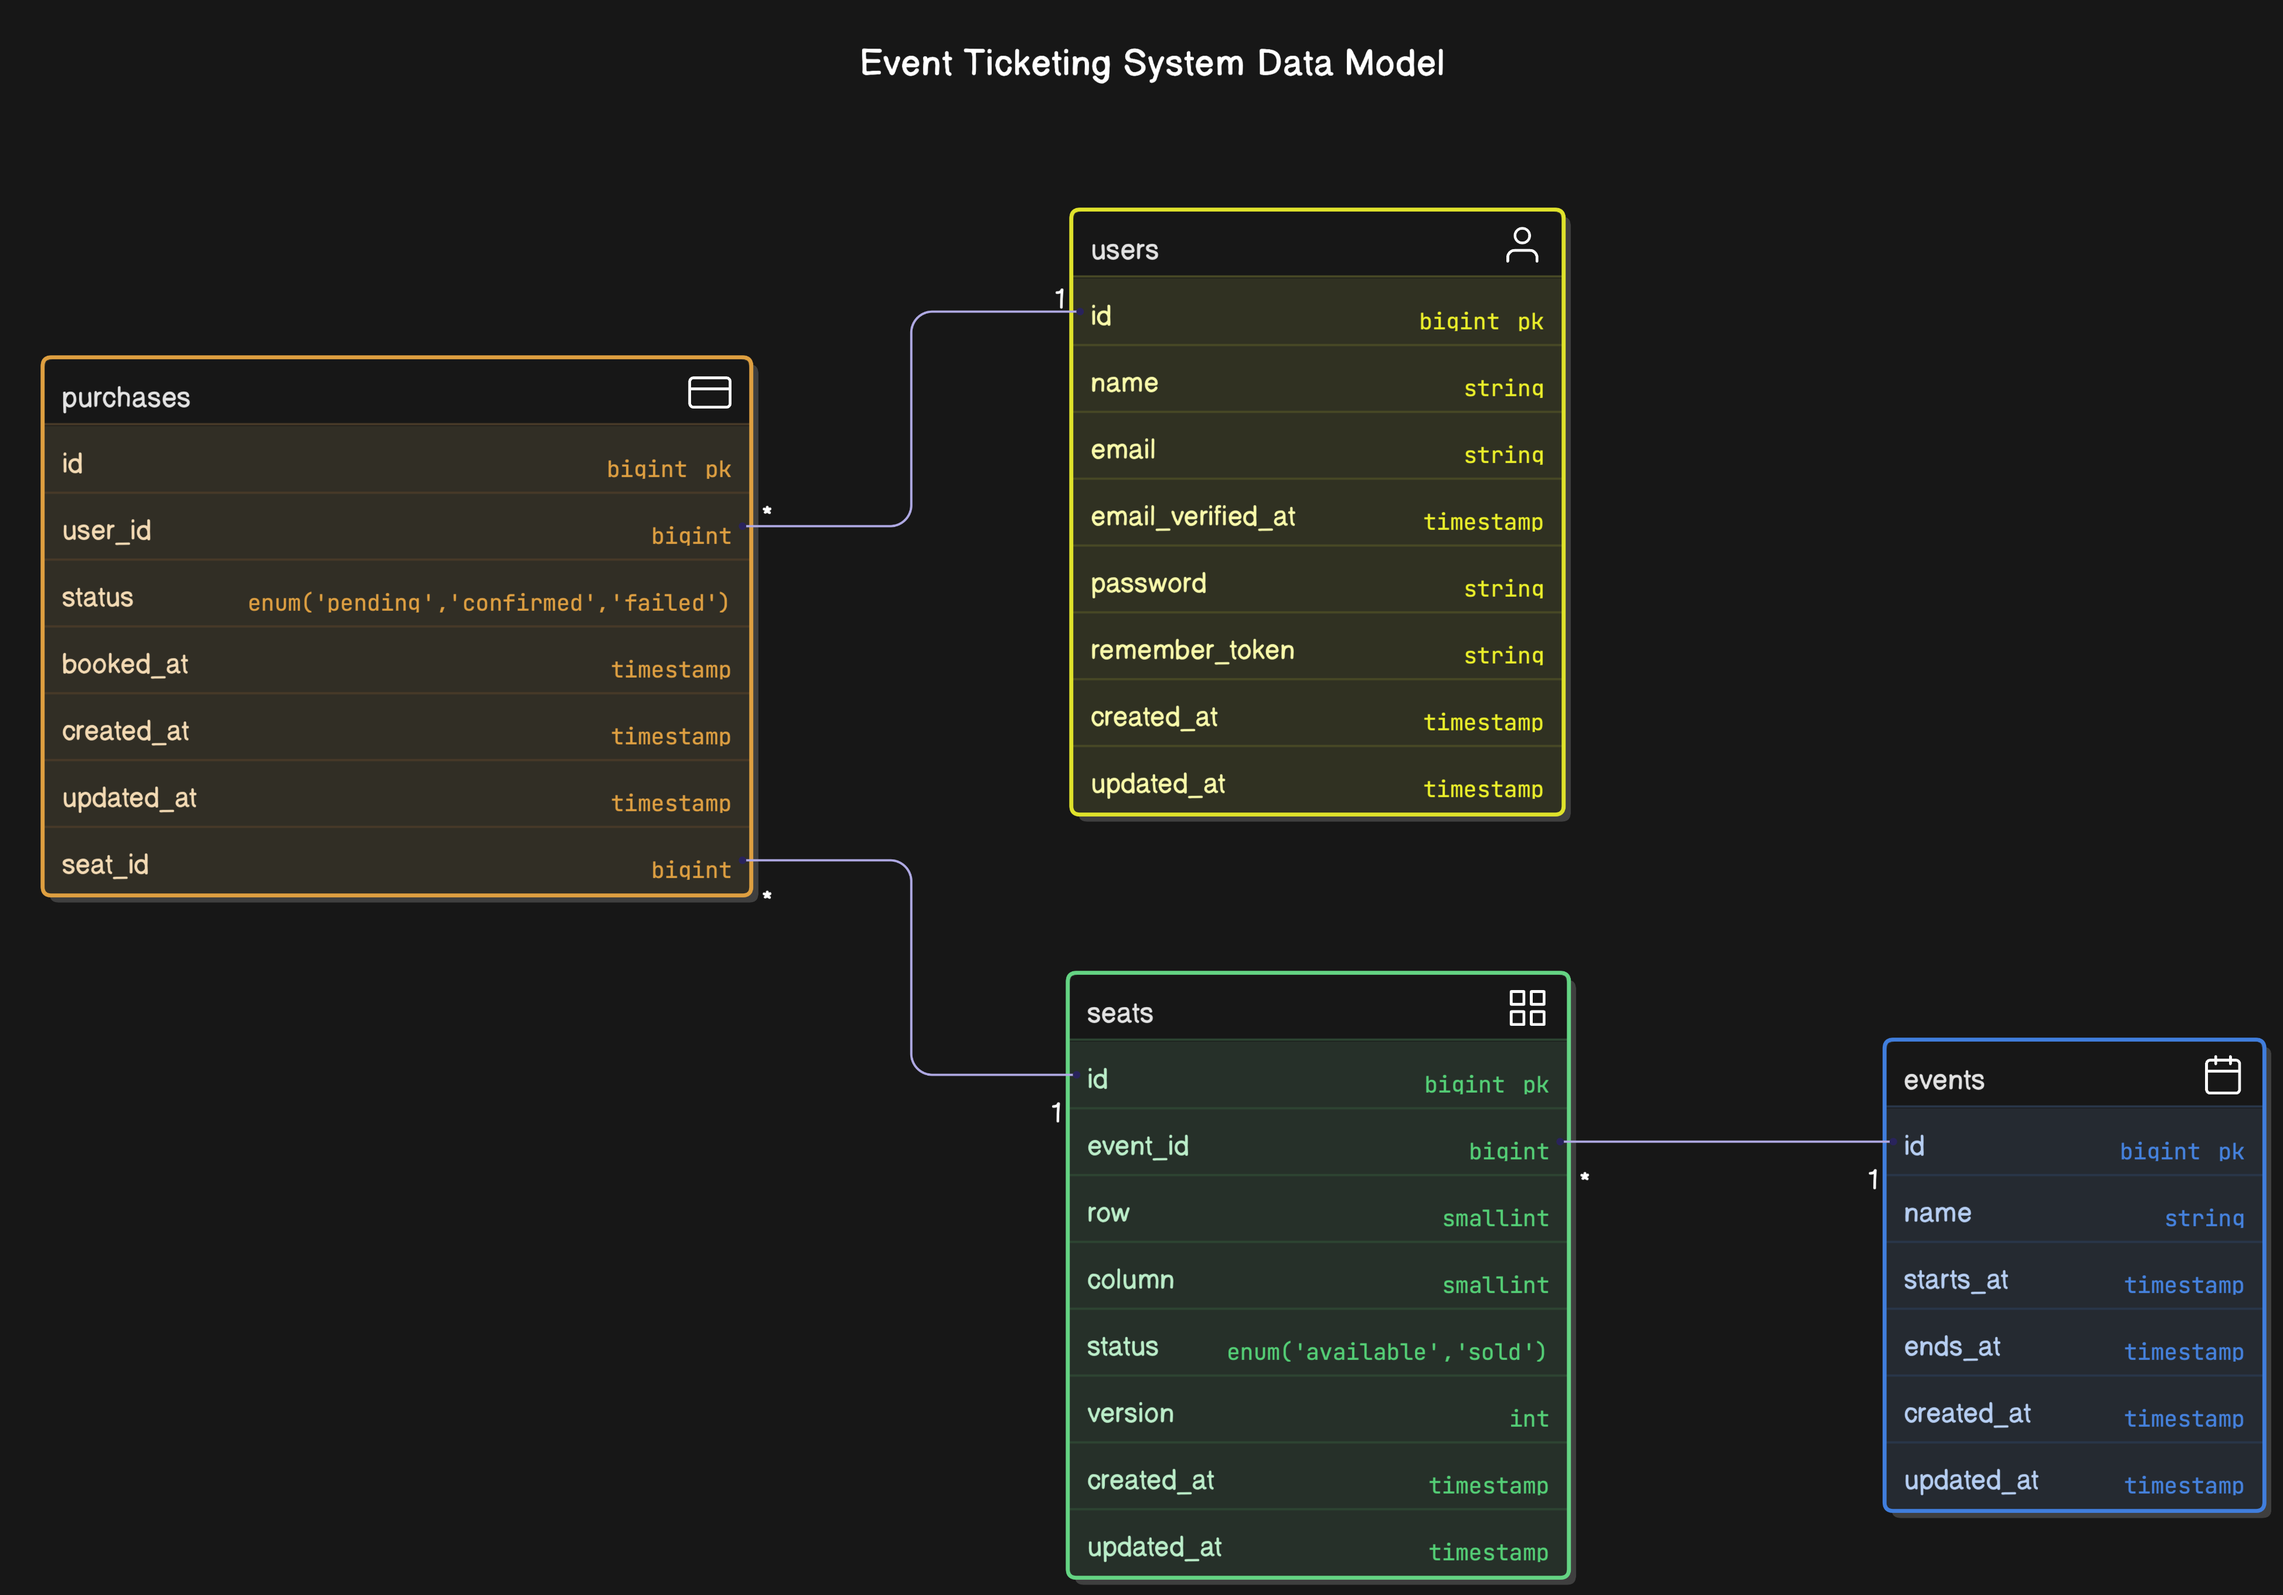
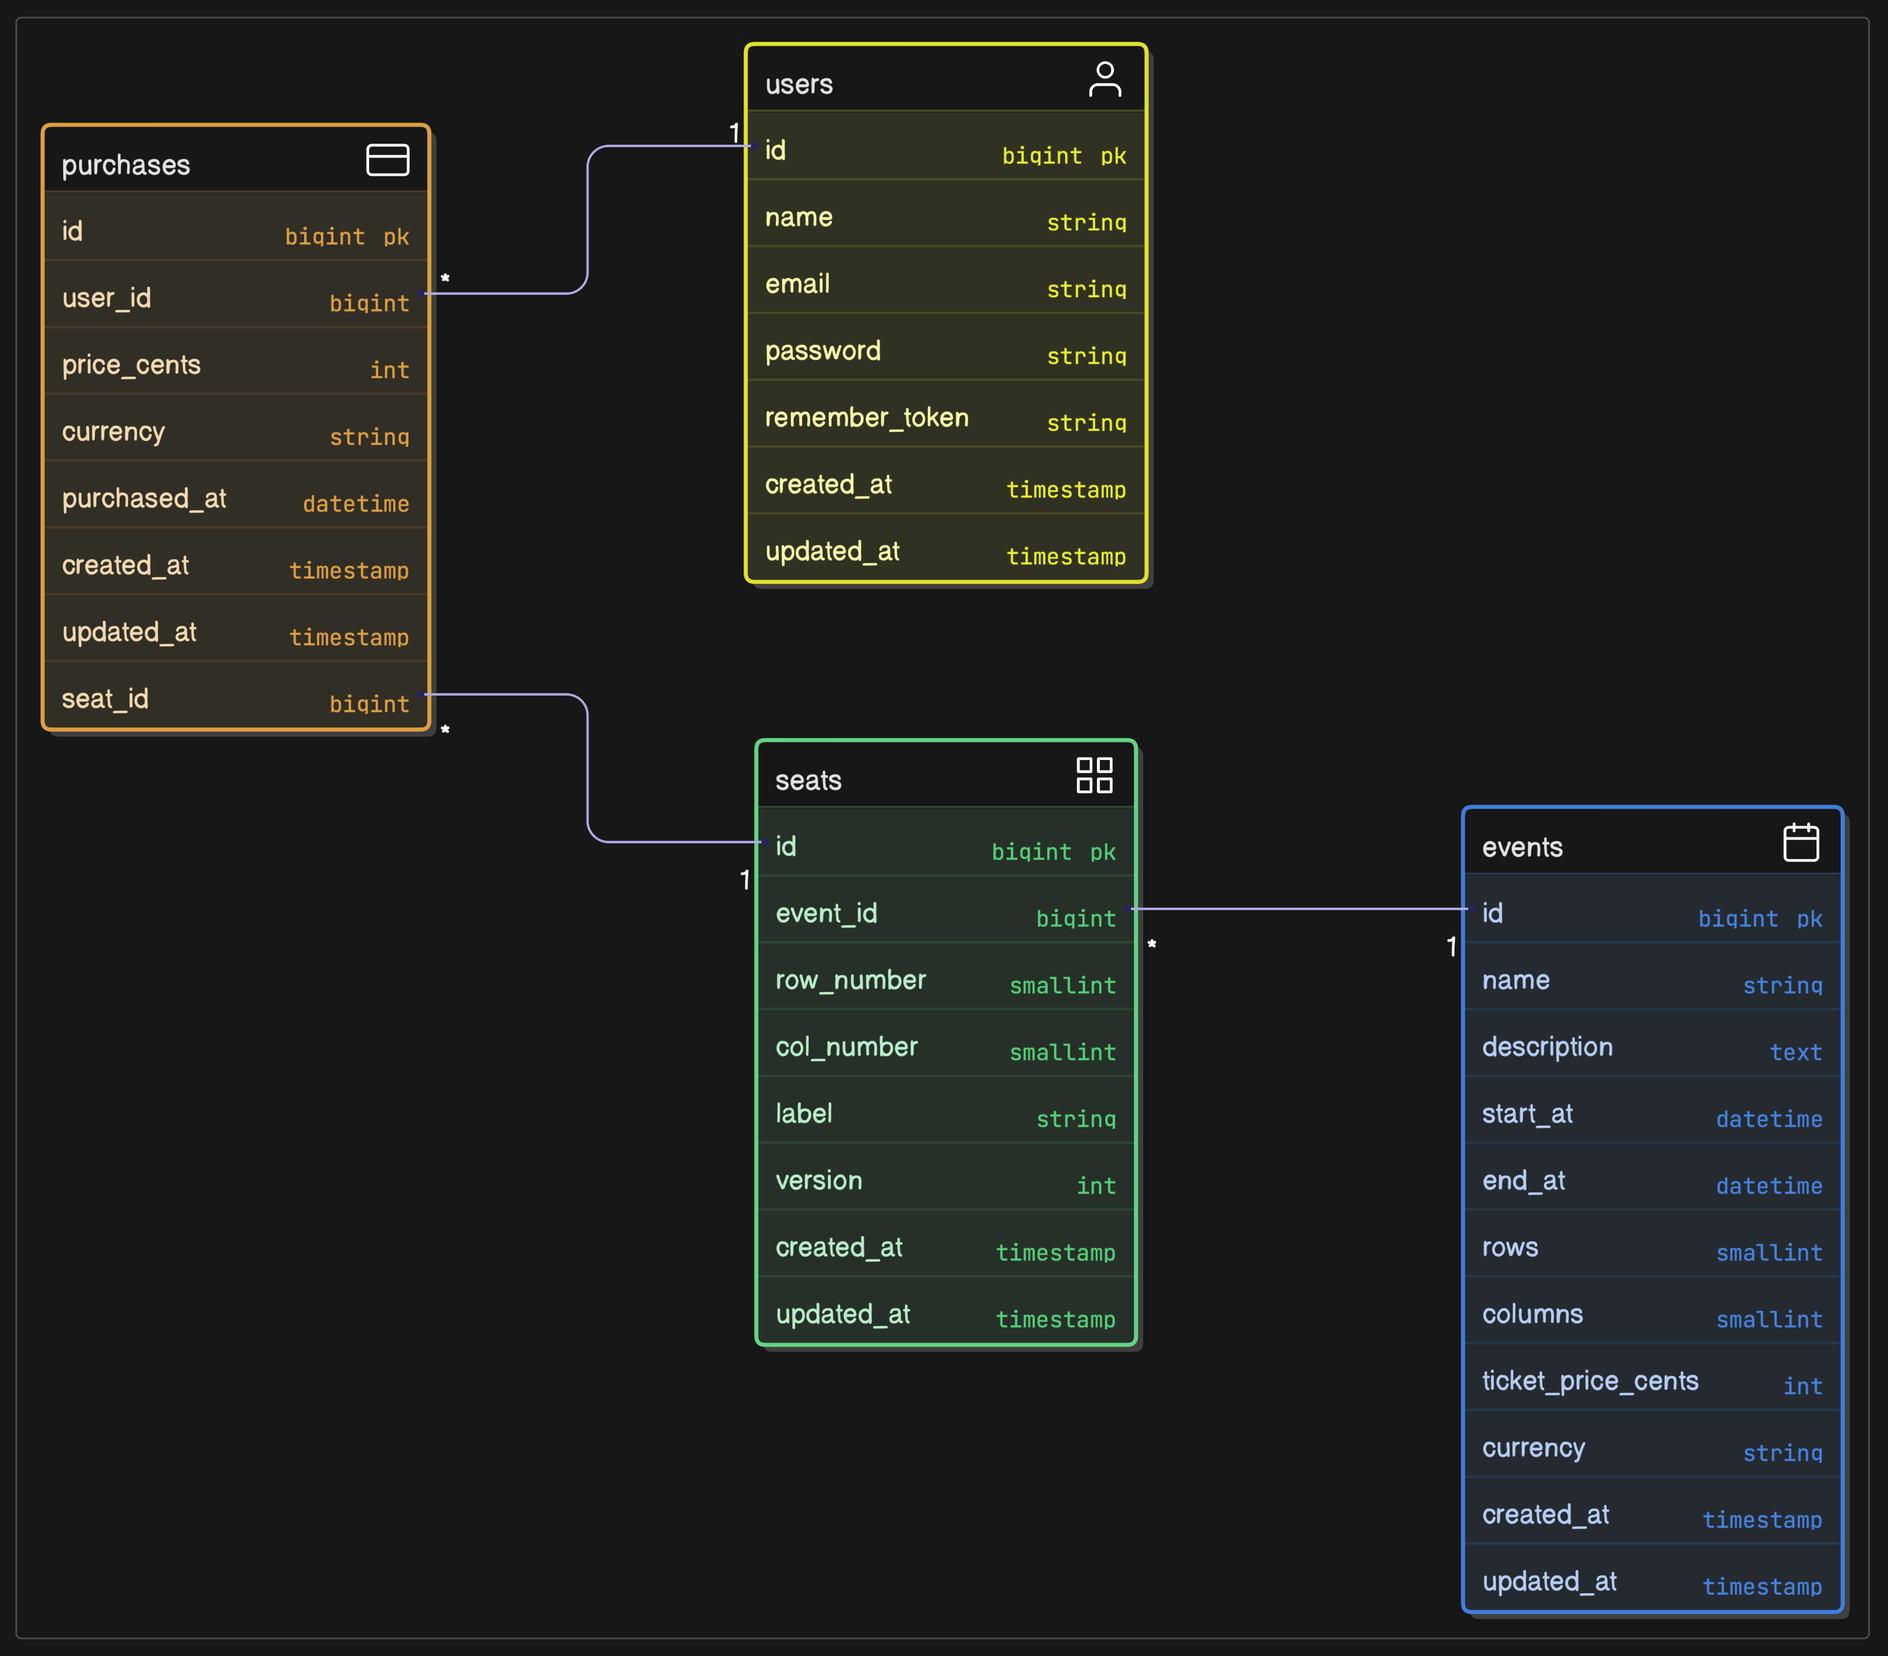
add models, migrations and factories

diff --git a/app/Models/Event.php b/app/Models/Event.php
@@ -1,0 +1,54 @@
+<?php
+
+namespace App\Models;
+
+use App\Enums\Currency;
+use Illuminate\Database\Eloquent\Concerns\HasUuids;
+use Illuminate\Database\Eloquent\Factories\HasFactory;
+use Illuminate\Database\Eloquent\Model;
+use Illuminate\Database\Eloquent\Relations\HasMany;
+
+class Event extends Model
+{
+    /** @use HasFactory<\Database\Factories\EventFactory> */
+    use HasFactory, HasUuids;
+
+    protected $fillable = [
+        'name',
+        'description',
+        'start_time',
+        'end_time',
+        'rows',
+        'columns',
+        'price_cents',
+        'price_currency',
+    ];
+
+    protected function casts(): array
+    {
+        return [
+            'start_at'    => 'datetime',
+            'end_at'      => 'datetime',
+            'price_cents' => 'integer',
+            'rows'        => 'integer',
+            'columns'     => 'integer',
+            'price_currency' =>  Currency::class
+        ];
+    }
+
+    /**
+     * The seats that belong to the event.
+     */
+    public function seats(): HasMany
+    {
+        return $this->hasMany(Seat::class);
+    }
+
+    /**
+     * The purchases that belong to the event.
+     */
+    public function purchases(): HasMany
+    {
+        return $this->hasMany(Purchase::class);
+    }
+}

diff --git a/app/Models/Purchase.php b/app/Models/Purchase.php
@@ -1,0 +1,48 @@
+<?php
+
+namespace App\Models;
+
+use App\Enums\Currency;
+use Database\Factories\PurchaseFactory;
+use Illuminate\Database\Eloquent\Factories\HasFactory;
+use Illuminate\Database\Eloquent\Model;
+use Illuminate\Database\Eloquent\Relations\BelongsTo;
+
+class Purchase extends Model
+{
+    /** @use HasFactory<PurchaseFactory> */
+    use HasFactory;
+
+    protected $fillable = [
+        'user_id',
+        'seat_id',
+        'event_id',
+        'price_cents',
+        'price_currency',
+        'purchased_at',
+    ];
+
+    protected function casts(): array
+    {
+        return [
+            'purchased_at' => 'datetime',
+            'price_cents'  => 'integer',
+            'price_currency' => Currency::class,
+        ];
+    }
+
+    public function user(): BelongsTo
+    {
+        return $this->belongsTo(User::class);
+    }
+
+    public function seat(): BelongsTo
+    {
+        return $this->belongsTo(Seat::class);
+    }
+
+    public function event(): BelongsTo
+    {
+        return $this->belongsTo(Event::class);
+    }
+}

diff --git a/app/Models/User.php b/app/Models/User.php
@@ -3,7 +3,9 @@
 namespace App\Models;
 
 // use Illuminate\Contracts\Auth\MustVerifyEmail;
+use Illuminate\Database\Eloquent\Concerns\HasUuids;
 use Illuminate\Database\Eloquent\Factories\HasFactory;
+use Illuminate\Database\Eloquent\Relations\BelongsToMany;
 use Illuminate\Foundation\Auth\User as Authenticatable;
 use Illuminate\Notifications\Notifiable;
 use Illuminate\Support\Str;
@@ -11,7 +13,7 @@ use Illuminate\Support\Str;
 class User extends Authenticatable
 {
     /** @use HasFactory<\Database\Factories\UserFactory> */
-    use HasFactory, Notifiable;
+    use HasFactory, Notifiable, HasUuids;
 
     /**
      * The attributes that are mass assignable.
@@ -56,5 +58,13 @@ class User extends Authenticatable
             ->explode(' ')
             ->map(fn (string $name) => Str::of($name)->substr(0, 1))
             ->implode('');
+    }
+
+    /**
+     * The events that belong to the user.
+     */
+    public function events(): BelongsToMany
+    {
+        return $this->belongsToMany(Event::class);
     }
 }

diff --git a/database/migrations/2025_05_14_200341_create_events_table.php b/database/migrations/2025_05_14_200341_create_events_table.php
@@ -1,0 +1,36 @@
+<?php
+
+use App\Enums\Currency;
+use Illuminate\Database\Migrations\Migration;
+use Illuminate\Database\Schema\Blueprint;
+use Illuminate\Support\Facades\Schema;
+
+return new class extends Migration
+{
+    /**
+     * Run the migrations.
+     */
+    public function up(): void
+    {
+        Schema::create('events', function (Blueprint $table) {
+            $table->uuid('id')->primary();
+            $table->string('name', 100);
+            $table->string('description')->nullable();
+            $table->dateTime('start_at');
+            $table->dateTime('end_at');
+            $table->integer('rows');
+            $table->integer('columns');
+            $table->integer('price_cents')->nullable();
+            $table->enum('price_currency', Currency::toArray())->nullable();
+            $table->timestamps();
+        });
+    }
+
+    /**
+     * Reverse the migrations.
+     */
+    public function down(): void
+    {
+        Schema::dropIfExists('events');
+    }
+};

diff --git a/database/factories/EventFactory.php b/database/factories/EventFactory.php
@@ -1,0 +1,31 @@
+<?php
+
+namespace Database\Factories;
+
+use App\Enums\Currency;
+use Illuminate\Database\Eloquent\Factories\Factory;
+
+/**
+ * @extends \Illuminate\Database\Eloquent\Factories\Factory<\App\Models\Event>
+ */
+class EventFactory extends Factory
+{
+    /**
+     * Define the model's default state.
+     *
+     * @return array<string, mixed>
+     */
+    public function definition(): array
+    {
+        return [
+            'name'           => $this->faker->word(),
+            'description'    => $this->faker->paragraph(),
+            'start_at'       => now()->startOfDay(),
+            'end_at'         => now()->endOfDay(),
+            'rows'           => $this->faker->numberBetween(1, 10),
+            'columns'        => $this->faker->numberBetween(1, 10),
+            'price_cents'    => $this->faker->numberBetween(1000, 10000),
+            'price_currency' => $this->faker->randomElement(Currency::toArray()),
+        ];
+    }
+}

diff --git a/database/migrations/2025_05_18_100052_create_purchases_table.php b/database/migrations/2025_05_18_100052_create_purchases_table.php
@@ -1,0 +1,34 @@
+<?php
+
+use App\Enums\Currency;
+use Illuminate\Database\Migrations\Migration;
+use Illuminate\Database\Schema\Blueprint;
+use Illuminate\Support\Facades\Schema;
+
+return new class extends Migration
+{
+    /**
+     * Run the migrations.
+     */
+    public function up(): void
+    {
+        Schema::create('purchases', function (Blueprint $table) {
+            $table->uuid('id')->primary();
+            $table->uuid('user_id')->index();
+            $table->uuid('seat_id')->index();
+            $table->uuid('event_id')->index();
+            $table->integer('price_cents');
+            $table->enum('price_currency', Currency::toArray());
+            $table->dateTime('purchased_at')->nullable();
+            $table->timestamps();
+        });
+    }
+
+    /**
+     * Reverse the migrations.
+     */
+    public function down(): void
+    {
+        Schema::dropIfExists('purchases');
+    }
+};

diff --git a/database/migrations/2025_05_14_200616_create_seats_table.php b/database/migrations/2025_05_14_200616_create_seats_table.php
@@ -1,0 +1,33 @@
+<?php
+
+use App\Enums\SeatStatus;
+use Illuminate\Database\Migrations\Migration;
+use Illuminate\Database\Schema\Blueprint;
+use Illuminate\Support\Facades\Schema;
+
+return new class extends Migration
+{
+    /**
+     * Run the migrations.
+     */
+    public function up(): void
+    {
+        Schema::create('seats', function (Blueprint $table) {
+            $table->uuid('id')->primary();
+            $table->foreignId('event_id')->constrained('events')->onDelete('cascade');
+            $table->smallInteger('row_number');
+            $table->smallInteger('column_number');
+            $table->string('label',10)->nullable();
+            $table->smallInteger('version')->default(0);
+            $table->timestamps();
+        });
+    }
+
+    /**
+     * Reverse the migrations.
+     */
+    public function down(): void
+    {
+        Schema::dropIfExists('seats');
+    }
+};

diff --git a/app/Models/Seat.php b/app/Models/Seat.php
@@ -1,0 +1,37 @@
+<?php
+
+namespace App\Models;
+
+use Database\Factories\SeatFactory;
+use Illuminate\Database\Eloquent\Concerns\HasUuids;
+use Illuminate\Database\Eloquent\Factories\HasFactory;
+use Illuminate\Database\Eloquent\Model;
+use Illuminate\Database\Eloquent\Relations\BelongsTo;
+
+class Seat extends Model
+{
+    /** @use HasFactory<SeatFactory> */
+    use HasFactory, HasUuids;
+
+    protected $fillable = [
+        'event_id',
+        'row_number',
+        'column_number',
+        'label',
+        'version',
+    ];
+
+    protected function casts(): array
+    {
+        return [
+            'row_number'    => 'integer',
+            'column_number' => 'integer',
+            'version'       => 'integer',
+        ];
+    }
+
+    public function event(): BelongsTo
+    {
+        return $this->belongsTo(Event::class);
+    }
+}

diff --git a/database/factories/PurchaseFactory.php b/database/factories/PurchaseFactory.php
@@ -1,0 +1,29 @@
+<?php
+
+namespace Database\Factories;
+
+use App\Enums\Currency;
+use Illuminate\Database\Eloquent\Factories\Factory;
+
+/**
+ * @extends \Illuminate\Database\Eloquent\Factories\Factory<\App\Models\Purchase>
+ */
+class PurchaseFactory extends Factory
+{
+    /**
+     * Define the model's default state.
+     *
+     * @return array<string, mixed>
+     */
+    public function definition(): array
+    {
+        return [
+            'user_id'        => $this->faker->uuid(),
+            'seat_id'        => $this->faker->uuid(),
+            'event_id'       => $this->faker->uuid(),
+            'price_cents'    => $this->faker->numberBetween(1000, 10000),
+            'price_currency' => $this->faker->randomElement(Currency::toArray()),
+            'purchased_at'   => now(),
+        ];
+    }
+}

diff --git a/database/factories/SeatFactory.php b/database/factories/SeatFactory.php
@@ -1,0 +1,26 @@
+<?php
+
+namespace Database\Factories;
+
+use Illuminate\Database\Eloquent\Factories\Factory;
+
+/**
+ * @extends \Illuminate\Database\Eloquent\Factories\Factory<\App\Models\Seat>
+ */
+class SeatFactory extends Factory
+{
+    /**
+     * Define the model's default state.
+     *
+     * @return array<string, mixed>
+     */
+    public function definition(): array
+    {
+        return [
+            'row_number'    => $this->faker->numberBetween(1, 10),
+            'column_number' => $this->faker->numberBetween(1, 10),
+            'label'         => $this->faker->word(),
+            'version'       => $this->faker->numberBetween(0, 5),
+        ];
+    }
+}

diff --git a/database/migrations/0001_01_01_000000_create_users_table.php b/database/migrations/0001_01_01_000000_create_users_table.php
@@ -12,7 +12,7 @@ return new class extends Migration
     public function up(): void
     {
         Schema::create('users', function (Blueprint $table) {
-            $table->id();
+            $table->uuid('id')->primary();
             $table->string('name');
             $table->string('email')->unique();
             $table->timestamp('email_verified_at')->nullable();

diff --git a/app/Enums/Traits/EnumMatching.php b/app/Enums/Traits/EnumMatching.php
@@ -1,0 +1,17 @@
+<?php
+
+namespace App\Enums\Traits;
+
+trait EnumMatching
+{
+
+    /**
+     * Returns an array of enum values.
+     *
+     * @return array
+     */
+    public static function toArray(): array
+    {
+        return array_column(self::cases(), 'value');
+    }
+}
